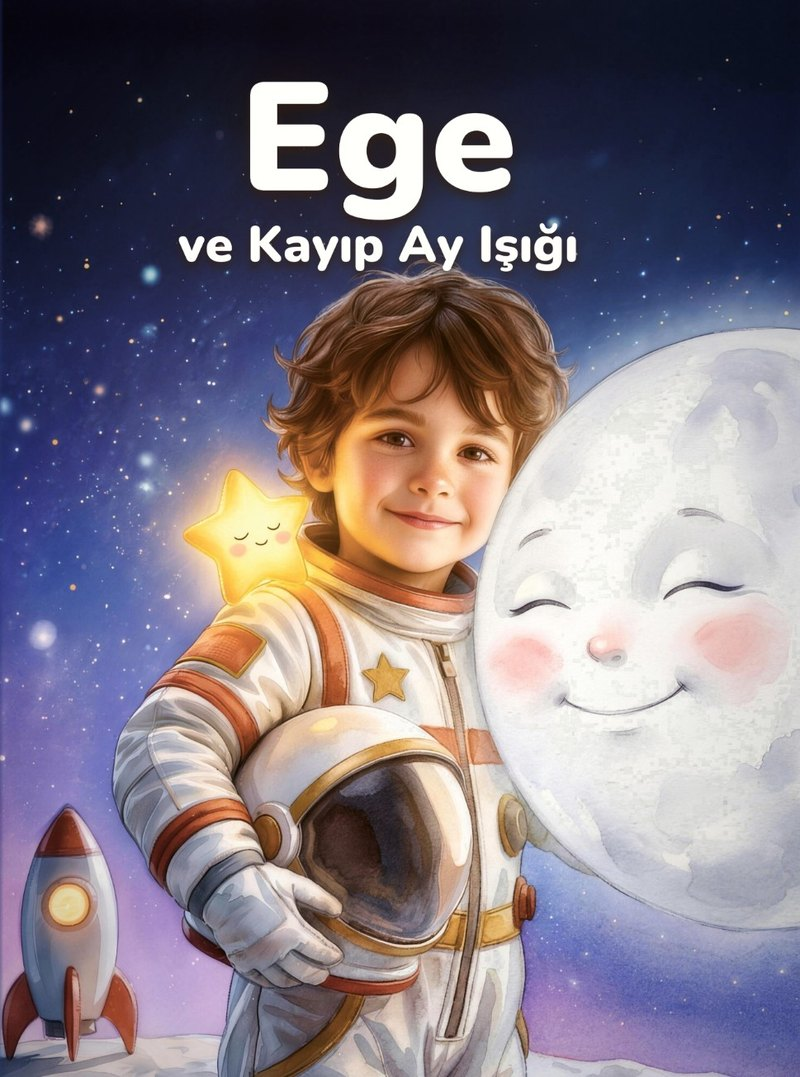
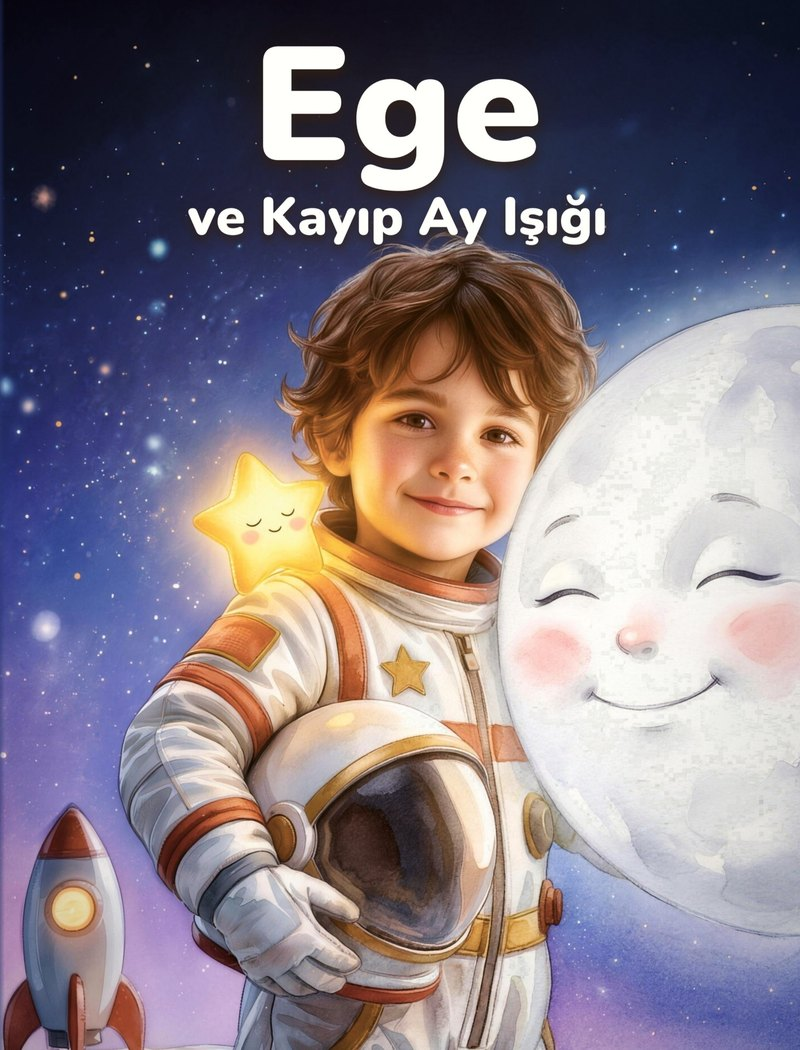
Ege ve Kayıp Ay Işığı: spreads 5 to 7, sharper front cover, clean cover for the live name, puzzle picture
Claude-Session: https://claude.ai/code/session_01Mbokh7aAvXFYm4VU1qJPda

diff --git a/site.js b/site.js
@@ -169,7 +169,10 @@ const SPREADS_AY = [
   ['img/kayip-ay-isigi-s1.jpg', 'Ege her gece penceresinden Ay’a bakıyor'],
   ['img/kayip-ay-isigi-s2.jpg', 'Oyuncak roket gerçek bir uzay gemisine dönüşüyor'],
   ['img/kayip-ay-isigi-s3.jpg', 'Yıldızların arasında küçük yıldızla tanışma'],
-  ['img/kayip-ay-isigi-s4.jpg', 'Ay’ın karanlık tarafında cesur adımlar']
+  ['img/kayip-ay-isigi-s4.jpg', 'Ay’ın karanlık tarafında cesur adımlar'],
+  ['img/kayip-ay-isigi-s5.jpg', 'Gözünde bir damla yaşla yalnız Ay'],
+  ['img/kayip-ay-isigi-s6.jpg', 'Ay’a bir masal: «Artık yalnız değilsin»'],
+  ['img/kayip-ay-isigi-s7.jpg', 'Evde, göz kırpan Ay’a iyi geceler']
 ];
 const PAGES_BOYAMA_BUZ = [
   ['img/buz-satosunun-sirri-boyama-p01.jpg', 'Kapaktaki sahne, boyanmayı bekliyor'],
@@ -257,8 +260,8 @@ const PRODUCTS = [
     img: 'img/dinozorlarin-dogum-gunu-kapak.jpg', clean: 'img/dinozorlarin-dogum-gunu-temiz.jpg', alt: 'Kerem ve Dinozorların Doğum Günü kapağı: pasta tutan çocuk ve yavru dinozorlar',
     desc: 'Bir akşam dinozor kitabının sayfasındaki küçük dinozor göz kırpar ve kahramanımız kendini yemyeşil bir ormanda bulur. Koca Dede yüz yaşına giriyor; Fıstık, Rüzgâr ve Minik ile birlikte ona sürpriz bir parti hazırlanır. Paylaşınca büyüyen mutluluğun masalı.',
     extra: [['img/dinozorlarin-dogum-gunu-arka.jpg', 'Arka kapak']], spreads: SPREADS_DINO },
-  { id: 'kayip-ay-isigi', coverTitle: { box: [0, .27], sub: 've Kayıp Ay Işığı' }, aud: 'erkek', type: 'kitap', status: 'hazir', hero: 'Ege', title: 've Kayıp Ay Işığı', age: '3–8 yaş',
-    img: 'img/kayip-ay-isigi-kapak.jpg', alt: 'Ege ve Kayıp Ay Işığı kapağı: astronot kıyafetli çocuk, gülümseyen Ay ve küçük yıldız',
+  { id: 'kayip-ay-isigi', coverTitle: { box: [0, .17], sub: 've Kayıp Ay Işığı' }, aud: 'erkek', type: 'kitap', status: 'hazir', hero: 'Ege', title: 've Kayıp Ay Işığı', age: '3–8 yaş',
+    img: 'img/kayip-ay-isigi-kapak.jpg', clean: 'img/kayip-ay-isigi-temiz.jpg', alt: 'Ege ve Kayıp Ay Işığı kapağı: astronot kıyafetli çocuk, gülümseyen Ay ve küçük yıldız',
     desc: 'Bir gece Ay kaybolur ve dünyanın her yerinde çocuklar korkulu rüyalar görmeye başlar. Penceredeki oyuncak roket gerçek bir uzay gemisine dönüşünce kahramanımız, küçük bir yıldızla birlikte Ay’ın karanlık tarafına cesur bir yolculuğa çıkar. Cesaretin, iyiliğin ve kendine inanmanın masalı.',
     extra: [['img/kayip-ay-isigi-arka.jpg', 'Arka kapak']], spreads: SPREADS_AY },
 

diff --git a/index.html b/index.html
@@ -17,7 +17,7 @@
 <link rel="preconnect" href="https://fonts.googleapis.com">
 <link rel="preconnect" href="https://fonts.gstatic.com" crossorigin>
 <link rel="stylesheet" href="https://fonts.googleapis.com/css2?family=Cormorant+Garamond:ital,wght@0,400;0,500;0,600;1,400;1,500&family=Jost:wght@300;400;500&display=swap">
-<link rel="stylesheet" href="site.css?v=202611081739">
+<link rel="stylesheet" href="site.css?v=202611081745">
 <style>
 /* Intro: one candlelit room. A jewel-red leather book with the gold-foil logo lies on the table.
    A tap on the book (or "Masalı Aç") opens it; three gold heroes grow out of the pages:
@@ -238,7 +238,7 @@
 <footer id="site-foot"></footer>
 
 <script src="https://cdnjs.cloudflare.com/ajax/libs/three.js/r128/three.min.js" defer></script>
-<script src="site.js?v=202611081739" defer></script>
+<script src="site.js?v=202611081745" defer></script>
 <script>
 // runs after the deferred three.js and site.js
 addEventListener('DOMContentLoaded', () => {

diff --git a/dinozorlarin-dogum-gunu-boyama.html b/dinozorlarin-dogum-gunu-boyama.html
@@ -17,8 +17,8 @@
 <link rel="preconnect" href="https://fonts.gstatic.com" crossorigin>
 <link rel="stylesheet" href="https://fonts.googleapis.com/css2?family=Cormorant+Garamond:ital,wght@0,400;0,500;0,600;1,400;1,500&family=Jost:wght@300;400;500&display=swap">
 <link rel="icon" href="img/favicon.png?v=2"><link rel="apple-touch-icon" href="img/logo/masaliya-favicon.png?v=2">
-<link rel="stylesheet" href="site.css?v=202611081739">
-<script src="site.js?v=202611081739" defer></script>
+<link rel="stylesheet" href="site.css?v=202611081745">
+<script src="site.js?v=202611081745" defer></script>
 </head>
 <body data-page="urun" data-product="dinozorlarin-dogum-gunu-boyama">
 <header id="site-head"></header>

diff --git a/buz-satosunun-sirri-boyama.html b/buz-satosunun-sirri-boyama.html
@@ -17,8 +17,8 @@
 <link rel="preconnect" href="https://fonts.gstatic.com" crossorigin>
 <link rel="stylesheet" href="https://fonts.googleapis.com/css2?family=Cormorant+Garamond:ital,wght@0,400;0,500;0,600;1,400;1,500&family=Jost:wght@300;400;500&display=swap">
 <link rel="icon" href="img/favicon.png?v=2"><link rel="apple-touch-icon" href="img/logo/masaliya-favicon.png?v=2">
-<link rel="stylesheet" href="site.css?v=202611081739">
-<script src="site.js?v=202611081739" defer></script>
+<link rel="stylesheet" href="site.css?v=202611081745">
+<script src="site.js?v=202611081745" defer></script>
 </head>
 <body data-page="urun" data-product="buz-satosunun-sirri-boyama">
 <header id="site-head"></header>

diff --git a/deniz-kizi-kralligi-boyama.html b/deniz-kizi-kralligi-boyama.html
@@ -17,8 +17,8 @@
 <link rel="preconnect" href="https://fonts.gstatic.com" crossorigin>
 <link rel="stylesheet" href="https://fonts.googleapis.com/css2?family=Cormorant+Garamond:ital,wght@0,400;0,500;0,600;1,400;1,500&family=Jost:wght@300;400;500&display=swap">
 <link rel="icon" href="img/favicon.png?v=2"><link rel="apple-touch-icon" href="img/logo/masaliya-favicon.png?v=2">
-<link rel="stylesheet" href="site.css?v=202611081739">
-<script src="site.js?v=202611081739" defer></script>
+<link rel="stylesheet" href="site.css?v=202611081745">
+<script src="site.js?v=202611081745" defer></script>
 </head>
 <body data-page="urun" data-product="deniz-kizi-kralligi-boyama">
 <header id="site-head"></header>

diff --git a/sihirli-kutuphane-boyama.html b/sihirli-kutuphane-boyama.html
@@ -17,8 +17,8 @@
 <link rel="preconnect" href="https://fonts.gstatic.com" crossorigin>
 <link rel="stylesheet" href="https://fonts.googleapis.com/css2?family=Cormorant+Garamond:ital,wght@0,400;0,500;0,600;1,400;1,500&family=Jost:wght@300;400;500&display=swap">
 <link rel="icon" href="img/favicon.png?v=2"><link rel="apple-touch-icon" href="img/logo/masaliya-favicon.png?v=2">
-<link rel="stylesheet" href="site.css?v=202611081739">
-<script src="site.js?v=202611081739" defer></script>
+<link rel="stylesheet" href="site.css?v=202611081745">
+<script src="site.js?v=202611081745" defer></script>
 </head>
 <body data-page="urun" data-product="sihirli-kutuphane-boyama">
 <header id="site-head"></header>

diff --git a/dinozorlarin-dogum-gunu.html b/dinozorlarin-dogum-gunu.html
@@ -17,8 +17,8 @@
 <link rel="preconnect" href="https://fonts.gstatic.com" crossorigin>
 <link rel="stylesheet" href="https://fonts.googleapis.com/css2?family=Cormorant+Garamond:ital,wght@0,400;0,500;0,600;1,400;1,500&family=Jost:wght@300;400;500&display=swap">
 <link rel="icon" href="img/favicon.png?v=2"><link rel="apple-touch-icon" href="img/logo/masaliya-favicon.png?v=2">
-<link rel="stylesheet" href="site.css?v=202611081739">
-<script src="site.js?v=202611081739" defer></script>
+<link rel="stylesheet" href="site.css?v=202611081745">
+<script src="site.js?v=202611081745" defer></script>
 </head>
 <body data-page="urun" data-product="dinozorlarin-dogum-gunu">
 <header id="site-head"></header>

diff --git a/minik-pandalar-boyama.html b/minik-pandalar-boyama.html
@@ -17,8 +17,8 @@
 <link rel="preconnect" href="https://fonts.gstatic.com" crossorigin>
 <link rel="stylesheet" href="https://fonts.googleapis.com/css2?family=Cormorant+Garamond:ital,wght@0,400;0,500;0,600;1,400;1,500&family=Jost:wght@300;400;500&display=swap">
 <link rel="icon" href="img/favicon.png?v=2"><link rel="apple-touch-icon" href="img/logo/masaliya-favicon.png?v=2">
-<link rel="stylesheet" href="site.css?v=202611081739">
-<script src="site.js?v=202611081739" defer></script>
+<link rel="stylesheet" href="site.css?v=202611081745">
+<script src="site.js?v=202611081745" defer></script>
 </head>
 <body data-page="urun" data-product="minik-pandalar-boyama">
 <header id="site-head"></header>

diff --git a/buz-satosunun-sirri.html b/buz-satosunun-sirri.html
@@ -17,8 +17,8 @@
 <link rel="preconnect" href="https://fonts.gstatic.com" crossorigin>
 <link rel="stylesheet" href="https://fonts.googleapis.com/css2?family=Cormorant+Garamond:ital,wght@0,400;0,500;0,600;1,400;1,500&family=Jost:wght@300;400;500&display=swap">
 <link rel="icon" href="img/favicon.png?v=2"><link rel="apple-touch-icon" href="img/logo/masaliya-favicon.png?v=2">
-<link rel="stylesheet" href="site.css?v=202611081739">
-<script src="site.js?v=202611081739" defer></script>
+<link rel="stylesheet" href="site.css?v=202611081745">
+<script src="site.js?v=202611081745" defer></script>
 </head>
 <body data-page="urun" data-product="buz-satosunun-sirri">
 <header id="site-head"></header>

diff --git a/deniz-kizi-kralligi.html b/deniz-kizi-kralligi.html
@@ -17,8 +17,8 @@
 <link rel="preconnect" href="https://fonts.gstatic.com" crossorigin>
 <link rel="stylesheet" href="https://fonts.googleapis.com/css2?family=Cormorant+Garamond:ital,wght@0,400;0,500;0,600;1,400;1,500&family=Jost:wght@300;400;500&display=swap">
 <link rel="icon" href="img/favicon.png?v=2"><link rel="apple-touch-icon" href="img/logo/masaliya-favicon.png?v=2">
-<link rel="stylesheet" href="site.css?v=202611081739">
-<script src="site.js?v=202611081739" defer></script>
+<link rel="stylesheet" href="site.css?v=202611081745">
+<script src="site.js?v=202611081745" defer></script>
 </head>
 <body data-page="urun" data-product="deniz-kizi-kralligi">
 <header id="site-head"></header>

diff --git a/sihirli-kutuphane.html b/sihirli-kutuphane.html
@@ -17,8 +17,8 @@
 <link rel="preconnect" href="https://fonts.gstatic.com" crossorigin>
 <link rel="stylesheet" href="https://fonts.googleapis.com/css2?family=Cormorant+Garamond:ital,wght@0,400;0,500;0,600;1,400;1,500&family=Jost:wght@300;400;500&display=swap">
 <link rel="icon" href="img/favicon.png?v=2"><link rel="apple-touch-icon" href="img/logo/masaliya-favicon.png?v=2">
-<link rel="stylesheet" href="site.css?v=202611081739">
-<script src="site.js?v=202611081739" defer></script>
+<link rel="stylesheet" href="site.css?v=202611081745">
+<script src="site.js?v=202611081745" defer></script>
 </head>
 <body data-page="urun" data-product="sihirli-kutuphane">
 <header id="site-head"></header>

diff --git a/kayip-ay-isigi.html b/kayip-ay-isigi.html
@@ -17,8 +17,8 @@
 <link rel="preconnect" href="https://fonts.gstatic.com" crossorigin>
 <link rel="stylesheet" href="https://fonts.googleapis.com/css2?family=Cormorant+Garamond:ital,wght@0,400;0,500;0,600;1,400;1,500&family=Jost:wght@300;400;500&display=swap">
 <link rel="icon" href="img/favicon.png?v=2"><link rel="apple-touch-icon" href="img/logo/masaliya-favicon.png?v=2">
-<link rel="stylesheet" href="site.css?v=202611081739">
-<script src="site.js?v=202611081739" defer></script>
+<link rel="stylesheet" href="site.css?v=202611081745">
+<script src="site.js?v=202611081745" defer></script>
 </head>
 <body data-page="urun" data-product="kayip-ay-isigi">
 <header id="site-head"></header>
